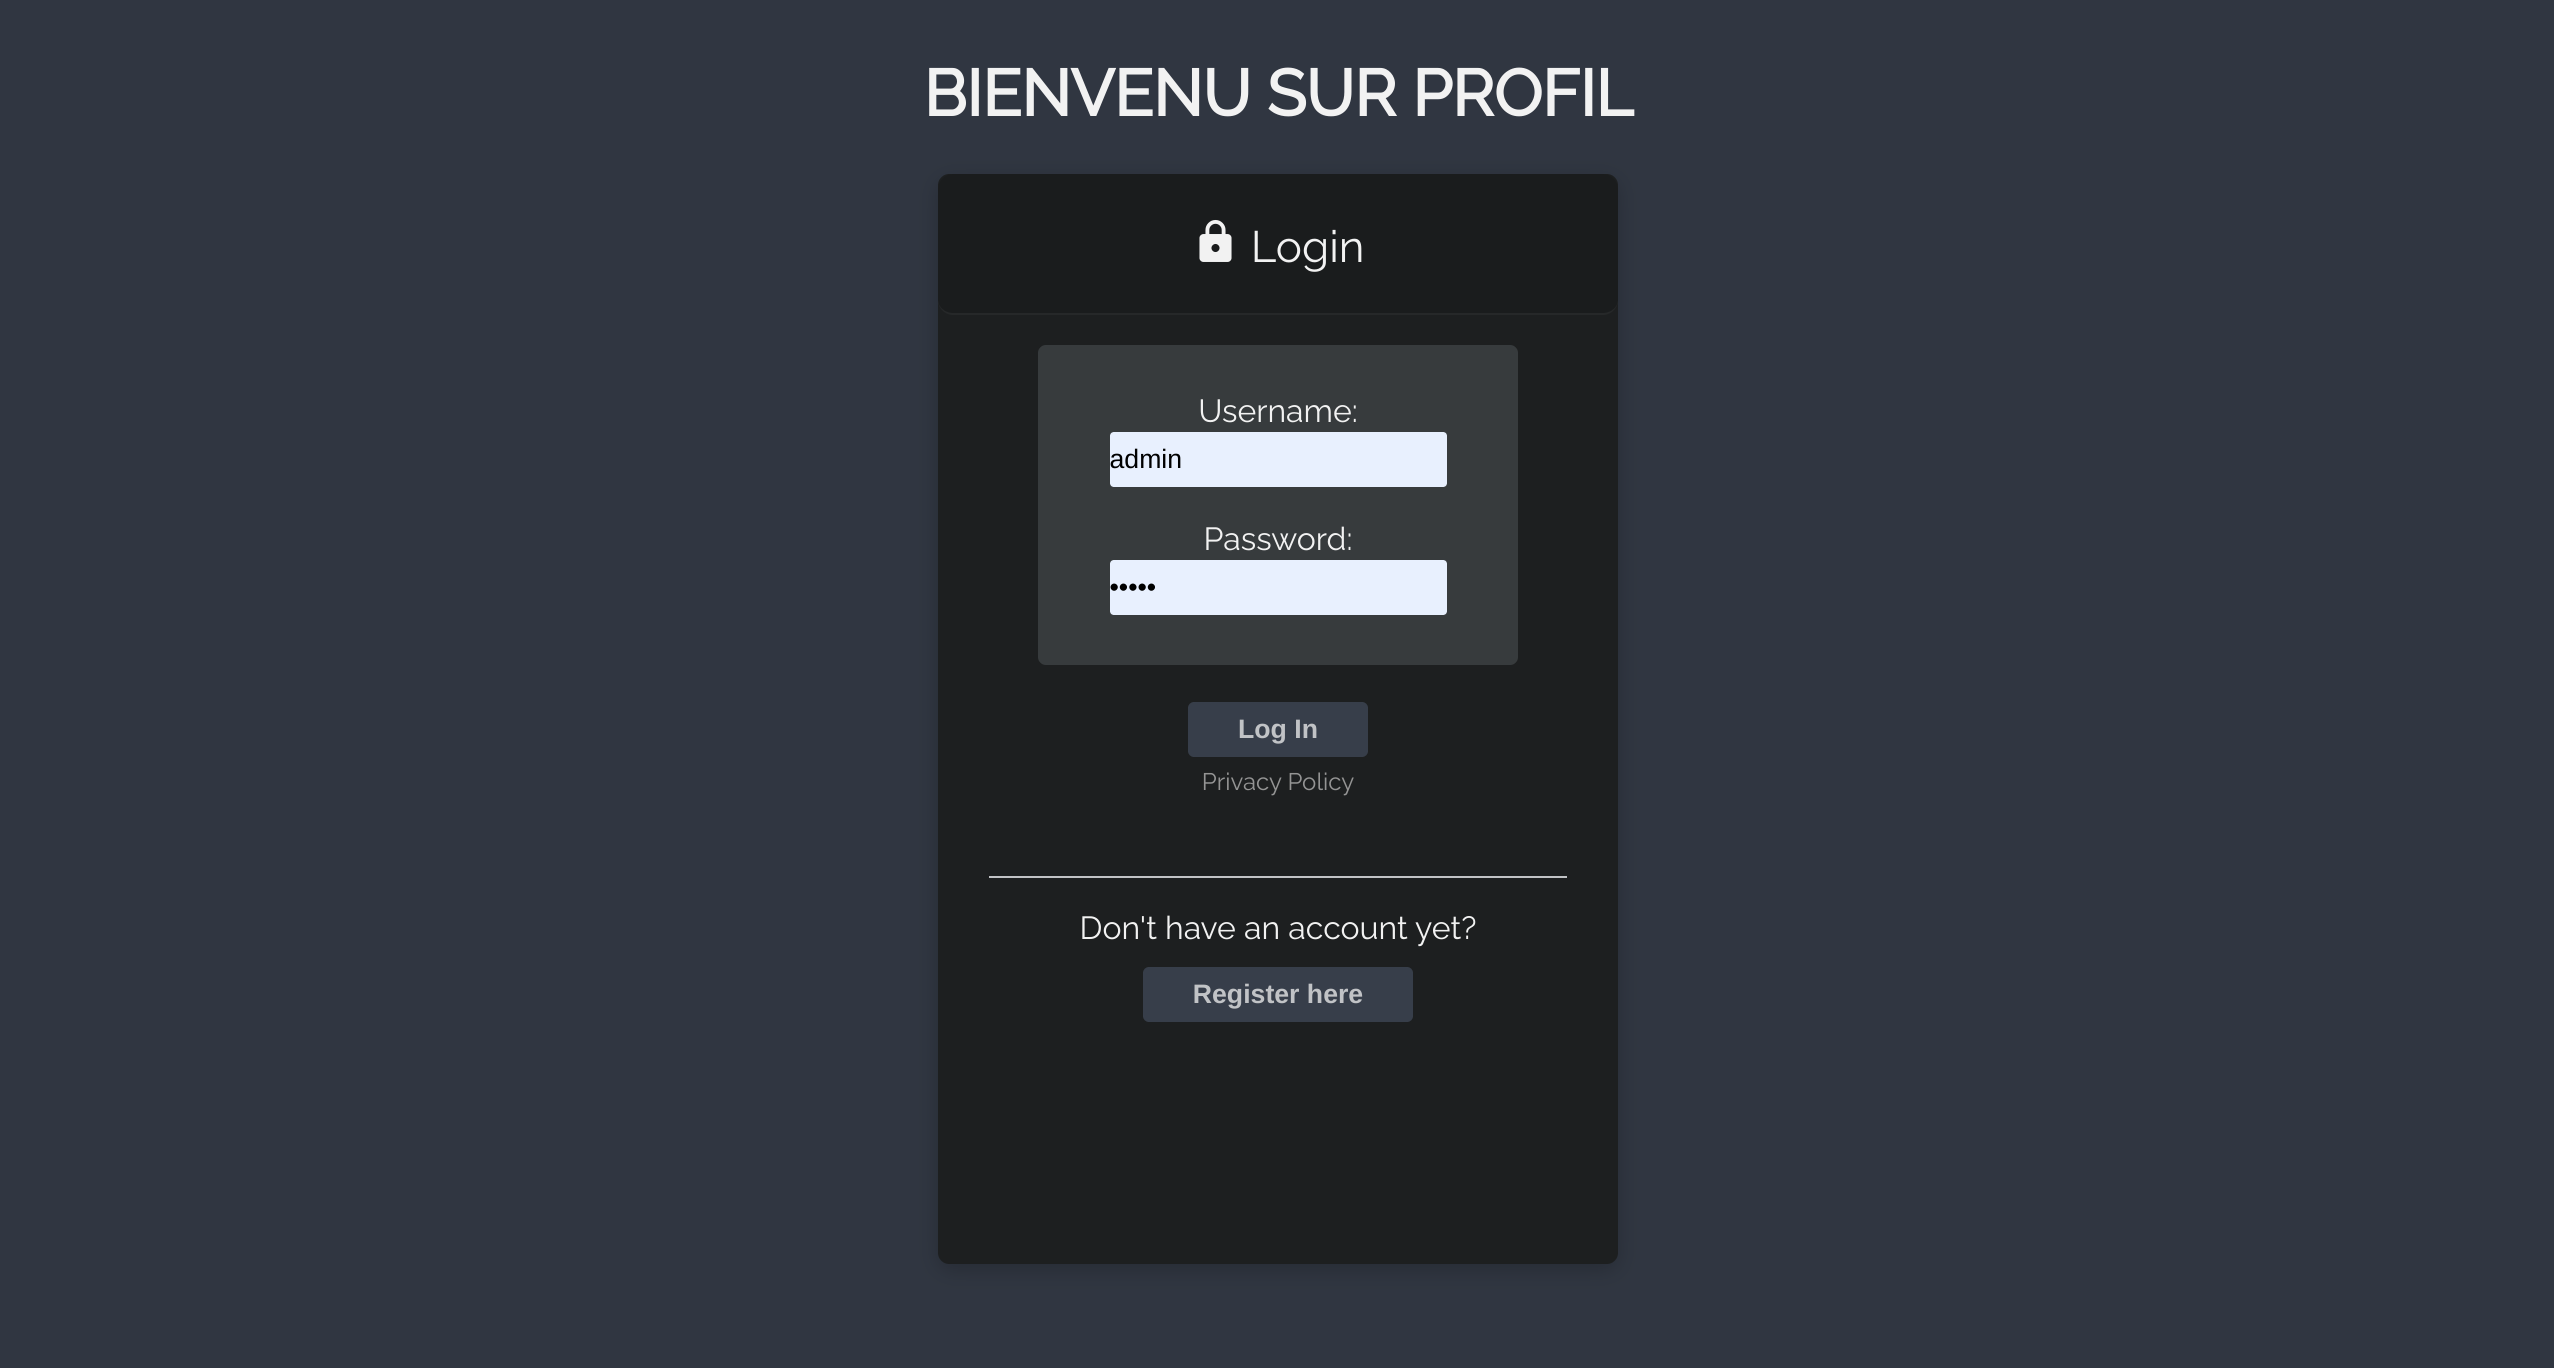
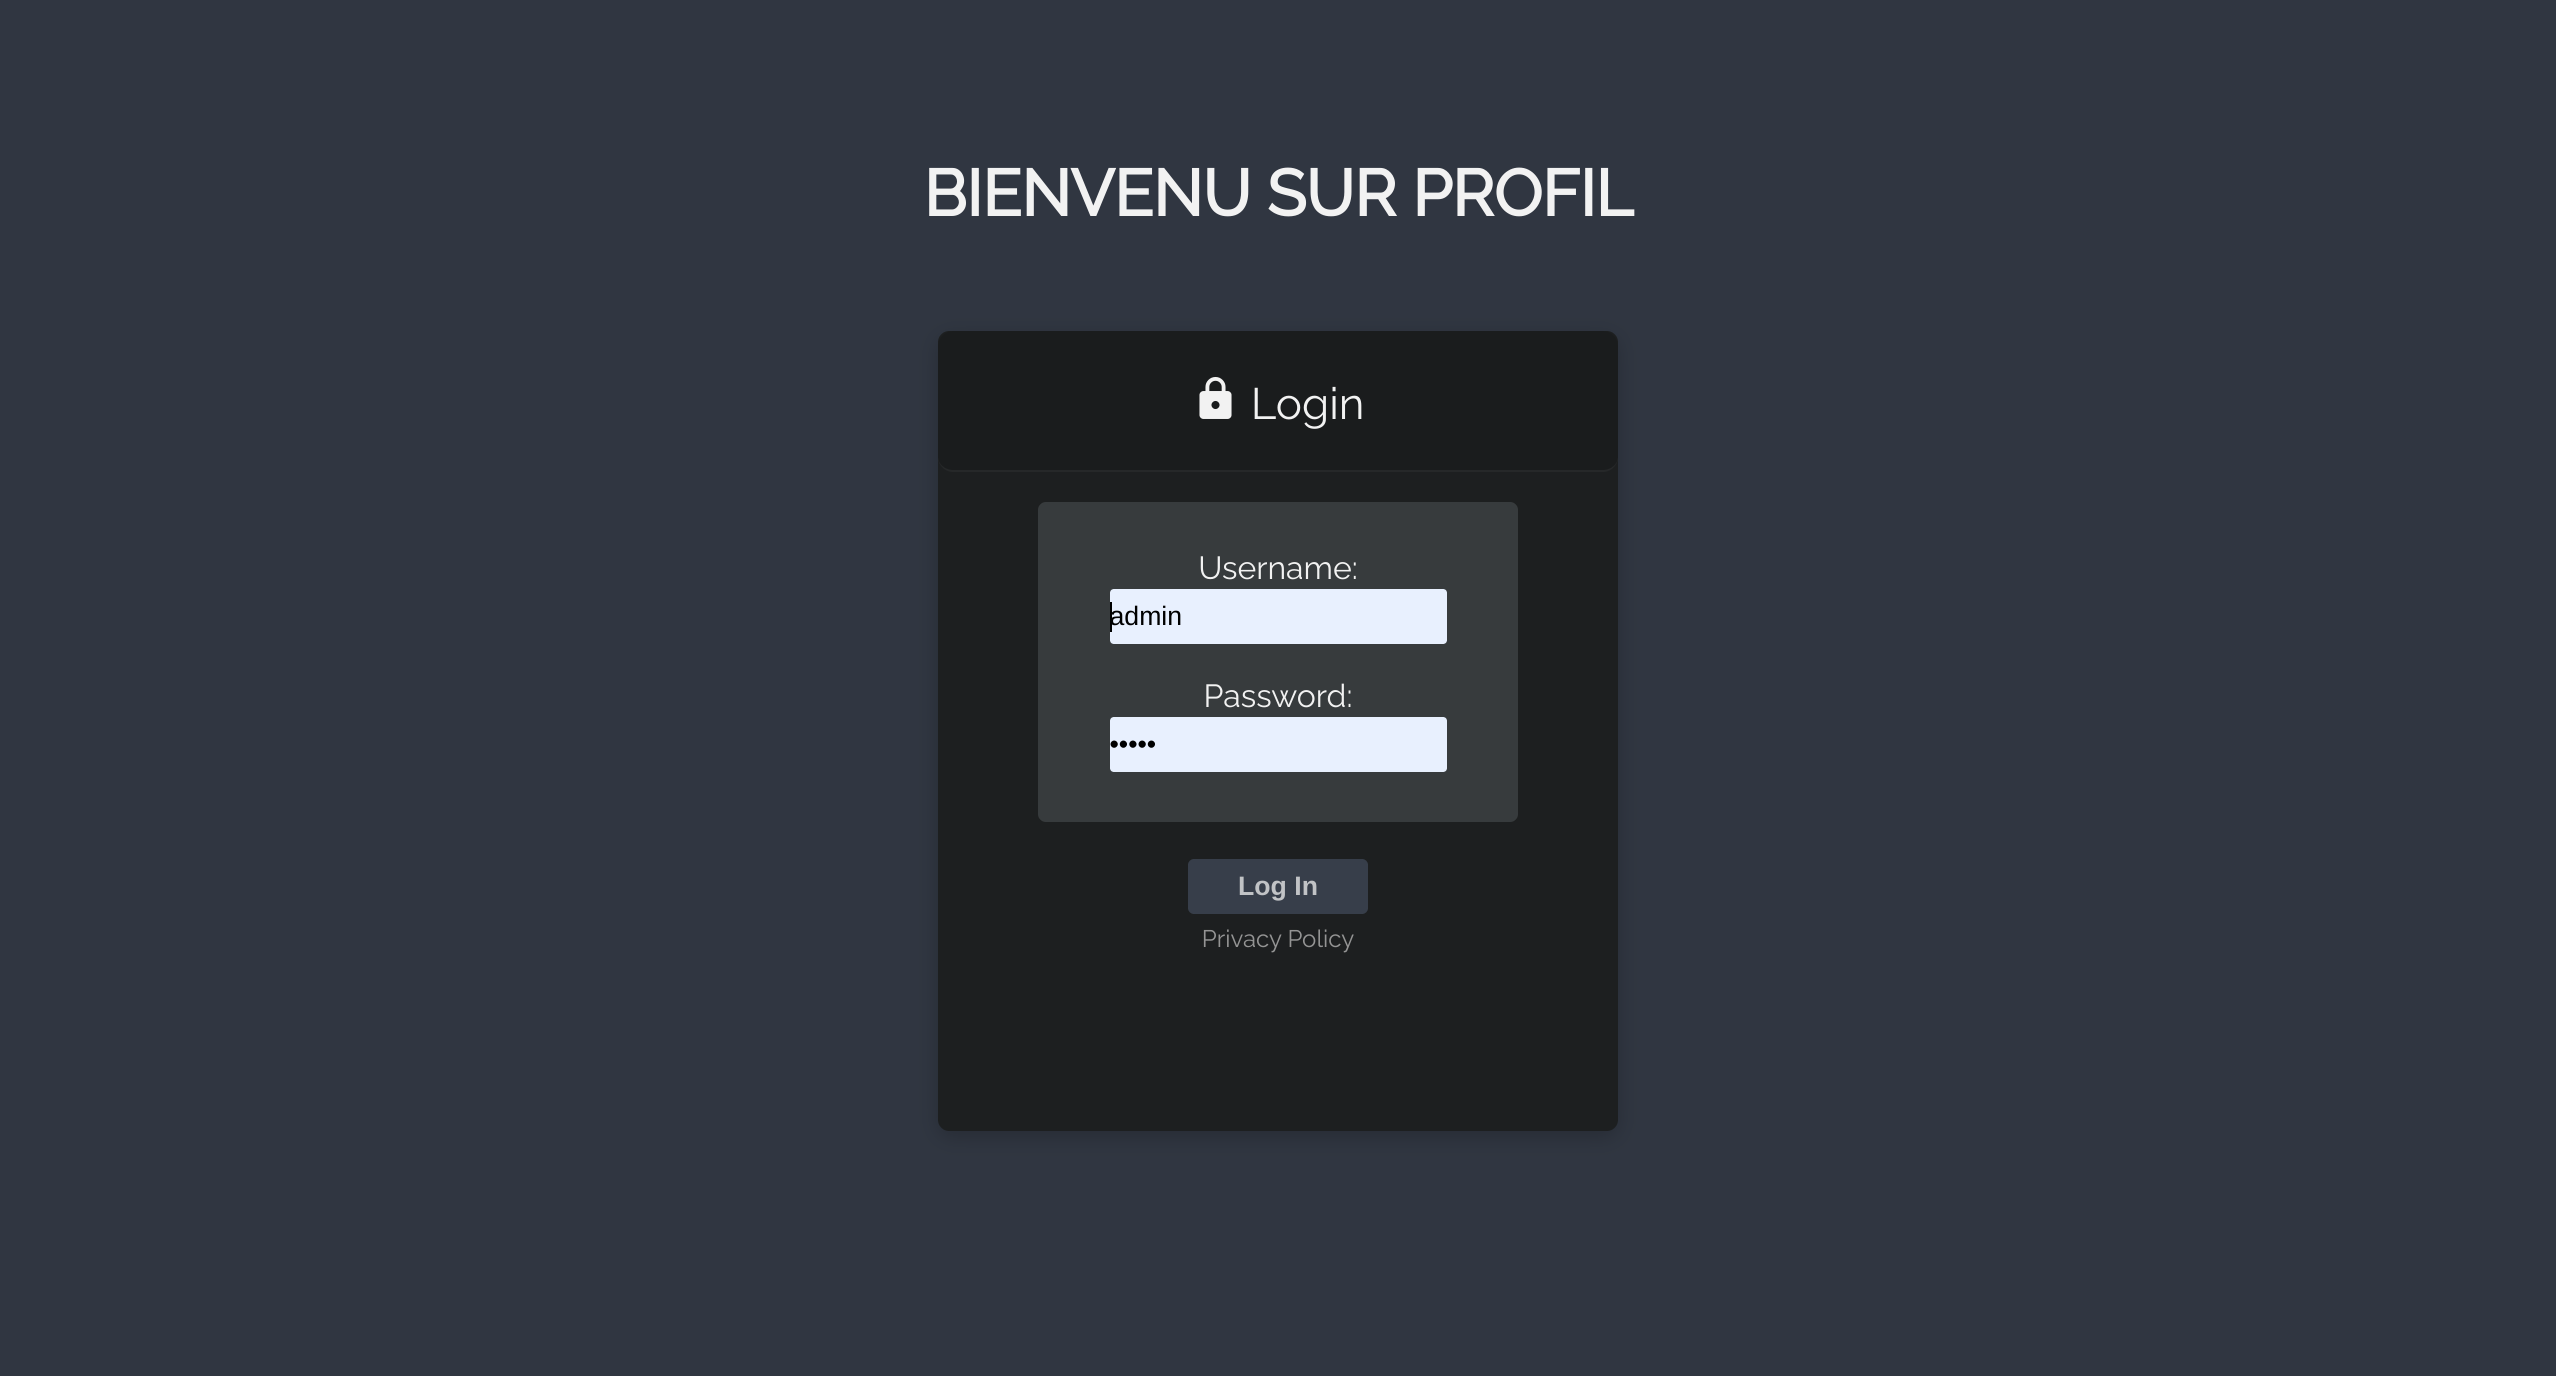
new version

Changed region(s): [[0.3403, 0.1228, 0.6496, 0.7675], [0.3403, 0.7982, 0.6496, 0.9211], [0.3403, 0.0307, 0.6496, 0.0921]]

diff --git a/template/login.html b/template/login.html
@@ -12,7 +12,7 @@
     <link rel="stylesheet" type="text/css" href="{% static 'main.css' %}">
 </head>
 <body>
-    <h1 style="text-align: center; margin-top: 30px;">BIENVENU SUR PROFIL</h1>
+    <h1 style="text-align: center; margin-top: 80px; margin-bottom: 50px;">BIENVENU SUR PROFIL</h1>
     <div id="container-login">
         <div id="title">
             <i class="material-icons lock">lock</i> Login
@@ -34,10 +34,6 @@
             <a href="#">Privacy Policy</a>
         </div>
 
-        <div class="register">
-            Don't have an account yet?
-            <a href="/register"><button id="register-link">Register here</button></a>
-        </div>
     </div>
 
 

diff --git a/static/main.css b/static/main.css
@@ -11,17 +11,7 @@ body {
     background-color: #1D1F20;
     margin: auto;
     width: 340px;
-    height: 545px;
-    border-radius: 0.35em;
-    box-shadow: 0 3px 10px 0 rgba(0, 0, 0, 0.2);
-    text-align: center;
-}
-
-#container-register {
-    background-color: #1D1F20;
-    margin: auto;
-    width: 340px;
-    height: 580px;
+    height: 400px;
     border-radius: 0.35em;
     box-shadow: 0 3px 10px 0 rgba(0, 0, 0, 0.2);
     text-align: center;

diff --git a/django_profil_app/views.py b/django_profil_app/views.py
@@ -2,17 +2,6 @@ from django.shortcuts import render, redirect
 from django.contrib.auth.forms import UserCreationForm, AuthenticationForm
 from django.contrib.auth import login, logout
 
-def register(request):
-    if request.method == 'POST':
-        form = UserCreationForm(request.POST)
-        if form.is_valid():
-            form.save()
-            username = form.cleaned_data.get('username')
-            return redirect('/login')
-    else:
-        form = UserCreationForm(request.POST)
-    return render(request, 'register.html', {'form': form})
-
 
 def login(request):
     if request.method == 'POST':

diff --git a/django_profil_app/urls.py b/django_profil_app/urls.py
@@ -7,7 +7,6 @@ urlpatterns = [
     path("accounts/", include("django.contrib.auth.urls")),
     path('admin/', admin.site.urls),
     path('login/', views.login),
-    path('register/', views.register),
     path('profil/', include('profil.urls')),
     path('home/', views.home),
     path('logout/', views.logout)

diff --git a/README.md b/README.md
@@ -44,3 +44,51 @@ git push
 
 ![alt text](https://github.com/Caltus124/django_profil_app/blob/master/img/login.png)
 
+<h2>Code projet</h2>
+
+<p>login.html</p>
+
+```html
+<!DOCTYPE html>
+<html>
+<head>
+    <meta charset="UTF-8">
+    <title>Login</title>
+    <meta name="description" content="Login - Register Template">
+    <meta name="author" content="Lorenzo Angelino aka MrLolok">
+    <meta name="viewport" content="width=device-width, initial-scale=1.0">
+    <link href="https://fonts.googleapis.com/icon?family=Material+Icons" rel="stylesheet">
+    <link rel="stylesheet" href="main.css">
+    {% load static %}
+    <link rel="stylesheet" type="text/css" href="{% static 'main.css' %}">
+</head>
+<body>
+    <h1 style="text-align: center; margin-top: 80px; margin-bottom: 50px;">BIENVENU SUR PROFIL</h1>
+    <div id="container-login">
+        <div id="title">
+            <i class="material-icons lock">lock</i> Login
+        </div>
+        {% block content %}
+        <form method="post" action="/login/">
+            <div class="input">
+                {% csrf_token %}
+                {{ form.as_p }}
+            </div><br>
+
+            <div class="clearfix"></div>
+
+            <input type="submit" value="Log In" />
+        </form>
+        {% endblock %}
+
+        <div class="privacy">
+            <a href="#">Privacy Policy</a>
+        </div>
+
+    </div>
+
+
+
+</body>
+</html>
+```
